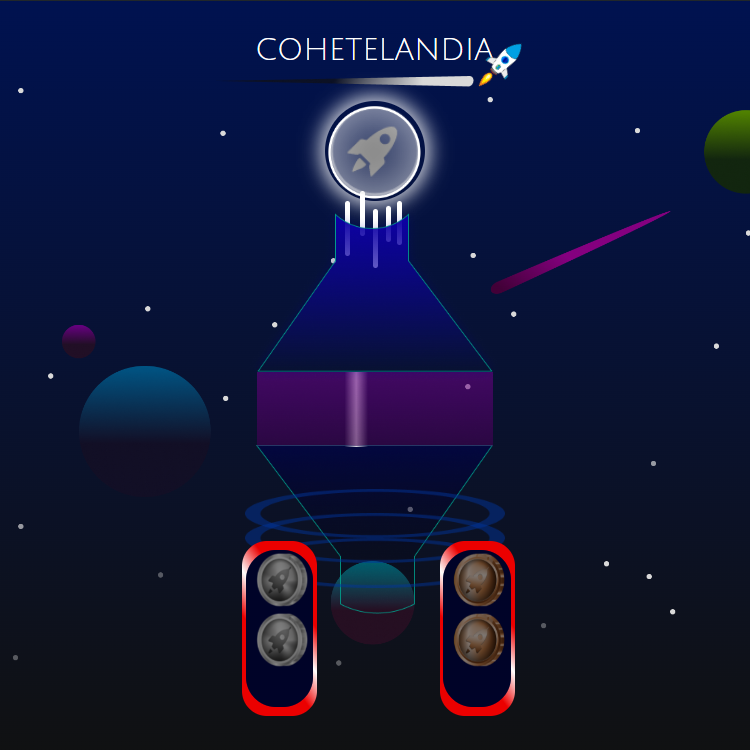
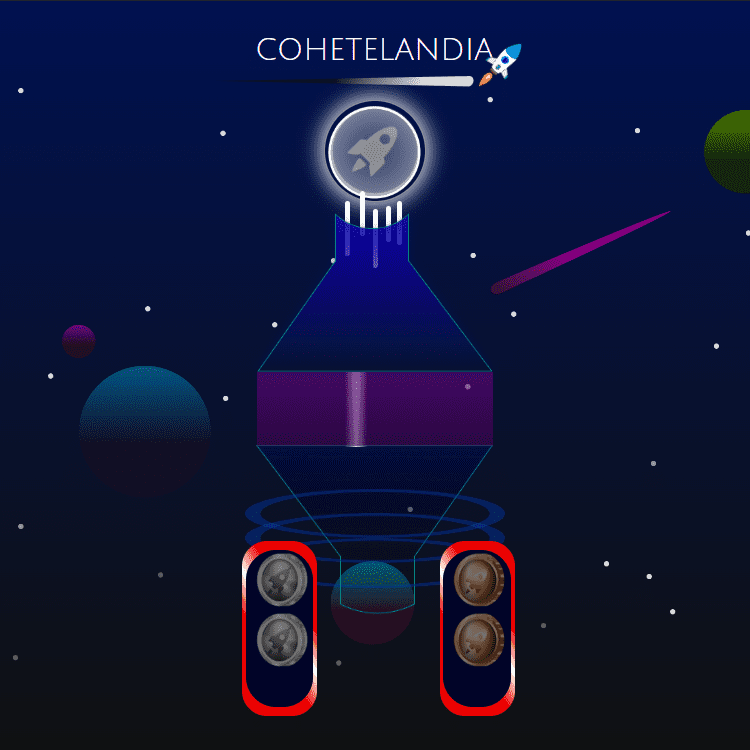
Add some changes in coin changer vortex
-Se añadio al vortez y las monedas de la derecha acceso a la store desde las de oro
-se añadio la animacion con imagen a store o cambiador de monedas

-Se añadio animacion de la nave del usuario volando hacia el vortex para entrar a la store o al cambiador de monedas.

diff --git a/resources/js/components/sections/ItemPalette.vue b/resources/js/components/sections/ItemPalette.vue
@@ -23,6 +23,9 @@ import CoinChangerVortexVue from "../activities/Coin Changer/CoinChangerVortex.v
 const goldCoins = ref(null);
 const silverCoins = ref(null);
 const bronzeCoins = ref(null);
+const goldCoinsChangeActive = ref("");
+const silverCoinsChangeActive = ref("");
+const bronzeCoinsChangeActive = ref("");
 
 //Props
 const props = defineProps({
@@ -31,7 +34,7 @@ const props = defineProps({
 });
 
 //Emits
-const emit = defineEmits(['closeAnimation', 'openAnimation']);
+const emit = defineEmits(['closeAnimation', 'openAnimation', 'vortexType', 'selected']);
 
 
 onMounted(() => {
@@ -53,6 +56,28 @@ onMounted(() => {
     }else if(parseInt(localStorage.getItem('bronzeCoins')) < 5){
         bronzeCoins.value = parseInt(localStorage.getItem('bronzeCoins'));
     }
+
+    //Controlamos si hay monedas suficientes para cambiar para darle efecto al boton de cambiar segun las monedas.
+    if(parseInt(localStorage.getItem('goldCoins')) > 0){
+        goldCoinsChangeActive.value = "item-palette-gold__div--container-active";
+    }else if(parseInt(localStorage.getItem('goldCoins')) === 0){
+        goldCoinsChangeActive.value = "";
+    };
+
+    if(parseInt(localStorage.getItem('silverCoins')) > 2){
+        silverCoinsChangeActive.value = "item-palette-gold__div--container-active";
+    }else if(parseInt(localStorage.getItem('silverCoins')) < 3){
+        silverCoinsChangeActive.value = "";
+    };
+
+    if(parseInt(localStorage.getItem('bronzeCoins')) > 2){
+        bronzeCoinsChangeActive.value = "item-palette-gold__div--container-active";
+    }else if(parseInt(localStorage.getItem('bronzeCoins')) > 3){
+        bronzeCoinsChangeActive.value = "";
+    };
+
+
+
 
     localStorage.setItem('itemSelected', null)
     itemSelected.value = getSelectItem()
@@ -141,9 +166,17 @@ const closeAnimation = () => {
     emit('closeAnimation', false);
 };
 
-const openAnimation = () => {
-    console.log("hover funcional");
+const openAnimation = (type) => {
     emit('openAnimation', true);
+    emit('vortexType', type);
+};
+
+//Creamos una funcion que nos mandara a la ruta de la store
+const storeAccess = () => {
+    setTimeout(() => {
+        window.location = `${localHost}/store`;
+    }, 3000);
+    emit('selected', true);
 };
 
 
@@ -238,18 +271,30 @@ const openAnimation = () => {
 
 
                         <!-- Codigo nuevo para monedas -->
-                        <div class="item-palette-gold__div--container w-52 h-10 bg-blue-950 rounded-3xl flex justify-center items-center border-2 border-cyan-400 hover:bg-yellow-400 hover:scale-95 hover:border-violet-50 cursor-pointer duration-300" @mouseenter="openAnimation()" @mouseleave="closeAnimation()">
-                            <img class="item-palette-gold__img--gold-coin w-10 duration-300 ease-in-out" v-for="index in goldCoins" :key="index" :src="IconGoldCoin" alt="golden-coin"/>
-                            <img class="item-palette__img--changer-icon w-0 absolute duration-300" :src="IconChanger" alt="changer"/>
+                        <div>
+                            <div v-if="goldCoins < 1" class="w-52 h-10 absolute z-20"></div>
+                            <div :class="`item-palette-gold__div--container ${goldCoinsChangeActive} w-52 h-10 bg-blue-950 rounded-3xl flex justify-center items-center border-2 border-cyan-400 hover:bg-yellow-400 hover:scale-95 hover:border-violet-50 cursor-pointer duration-300`" @mouseenter="openAnimation('store')" @mouseleave="closeAnimation()" @click="storeAccess()">
+                                <img class="item-palette-gold__img--gold-coin w-10 duration-300 ease-in-out" v-for="index in goldCoins" :key="index" :src="IconGoldCoin" alt="golden-coin"/>
+                                <img class="item-palette__img--changer-icon w-0 absolute duration-300" :src="IconChanger" alt="changer"/>
+                            </div>
                         </div>
-                        <div class="item-palette-silver__div--container w-52 h-10 bg-blue-950 rounded-3xl flex justify-center items-center border-2 border-cyan-400 hover:bg-gray-400 hover:scale-95 hover:border-violet-50 cursor-pointer duration-300" @mouseenter="openAnimation()" @mouseleave="closeAnimation()">
-                            <img class="item-palette-silver__img--silver-coin w-10 duration-300 ease-in-out" v-for="index in silverCoins" :key="index" :src="IconSilverCoin" alt="silver-coin"/>
-                            <img class="item-palette__img--changer-icon w-0 absolute duration-300" :src="IconChanger" alt="changer"/>
+
+                        <div>
+                            <div v-if="silverCoins < 3" class="w-52 h-10 absolute z-20"></div>
+                            <div :class="`item-palette-silver__div--container ${silverCoinsChangeActive} w-52 h-10 bg-blue-950 rounded-3xl flex justify-center items-center border-2 border-cyan-400 hover:bg-gray-400 hover:scale-95 hover:border-violet-50 cursor-pointer duration-300`" @mouseenter="openAnimation('changer')" @mouseleave="closeAnimation()">
+                                <img class="item-palette-silver__img--silver-coin w-10 duration-300 ease-in-out" v-for="index in silverCoins" :key="index" :src="IconSilverCoin" alt="silver-coin"/>
+                                <img class="item-palette__img--changer-icon w-0 absolute duration-300" :src="IconChanger" alt="changer"/>
+                            </div>
                         </div>
-                        <div class="item-palette-bronze__div--container w-52 h-10 bg-blue-950 rounded-3xl flex justify-center items-center border-2 border-cyan-400 hover:bg-amber-700 hover:scale-95 hover:border-violet-50 cursor-pointer duration-300" @mouseenter="openAnimation()" @mouseleave="closeAnimation()">
-                            <img class="item-palette-bronze__img--bronze-coin w-10 duration-300 ease-in-out" v-for="index in bronzeCoins" :key="index" :src="IconBronzeCoin" alt="bronze-coin"/>
-                            <img class="item-palette__img--changer-icon w-0 absolute duration-300" :src="IconChanger" alt="changer"/>
+
+                        <div>
+                            <div v-if="bronzeCoins < 3" class="w-52 h-10 absolute z-20"></div>
+                            <div :class="`item-palette-bronze__div--container ${bronzeCoinsChangeActive} w-52 h-10 bg-blue-950 rounded-3xl flex justify-center items-center border-2 border-cyan-400 hover:bg-amber-700 hover:scale-95 hover:border-violet-50 cursor-pointer duration-300`" @mouseenter="openAnimation('changer')" @mouseleave="closeAnimation()">
+                                <img class="item-palette-bronze__img--bronze-coin w-10 duration-300 ease-in-out" v-for="index in bronzeCoins" :key="index" :src="IconBronzeCoin" alt="bronze-coin"/>
+                                <img class="item-palette__img--changer-icon w-0 absolute duration-300" :src="IconChanger" alt="changer"/>
+                            </div>
                         </div>
+                        
 
 
                     </div>
@@ -267,7 +312,7 @@ const openAnimation = () => {
                     class="bg-red-100 col-span-2 flex justify-center m-3 p-2 rounded-md border-orange-400 border-4 border-dashed">
                     <span class="font-semibold text-xl text-center">Paleta de colores</span>
                 </div> -->
-                <div @click="selectItemPalette(item)" v-for="item in props.items"
+                <div @click="selectItemPalette(item)" v-for="item , index in props.items" :key="index"
                      class="flex justify-center items-center w-full h-full">
                     <button
                         :class="['bg-gray-100 shadow-md rounded-lg hover:opacity-75 hover:scale-95 duration-300 select-none font-bold text-6xl w-20 h-20 flex justify-center items-center' ,
@@ -387,32 +432,6 @@ const openAnimation = () => {
     box-shadow: inset 0px 0px 20px -1px rgba(233,245,0,1);
 }
 
-/* @keyframes backgroundCoins {
-    0% {
-        background-position: 0% 0%;
-    }
-
-    50% {
-        background-position: 100% 100%;
-    }
-
-    100% {
-        background-position: 0% 0%;
-    }
-} */
-
-/* .item-palette-silver__div--container {
-
-}
-
-.item-palette-bronze__div--container {
-
-} */
-/* .item-palette-gold__div--container:hover {
-    background-color: #facc15;
-    border: ;
-} */
-
 
 .item-palette-gold__div--container:hover .item-palette-gold__img--gold-coin {
     width: 0px;
@@ -422,6 +441,29 @@ const openAnimation = () => {
     width: 40px;
 }
 
+.item-palette-gold__div--container-active {
+    animation: changerActive 2s infinite;
+}
+
+@keyframes changerActive {
+    0% {
+        -webkit-box-shadow: 0px 0px 9px -21px rgb(255, 255, 255);
+        -moz-box-shadow: 0px 0px 9px -21px rgb(255, 255, 255);
+        box-shadow: 0px 0px 9px -21px rgb(255, 255, 255);
+    }
+
+    50% {
+        -webkit-box-shadow: 0px 0px 20px -3px rgba(255,255,255,1);
+        -moz-box-shadow: 0px 0px 20px -3px rgba(255,255,255,1);
+        box-shadow: 0px 0px 20px -3px rgba(255,255,255,1);
+    }
+
+    100% {
+        -webkit-box-shadow: 0px 0px 9px -21px rgb(255, 255, 255);
+        -moz-box-shadow: 0px 0px 9px -21px rgb(255, 255, 255);
+        box-shadow: 0px 0px 9px -21px rgb(255, 255, 255);
+    }
+}
 
 .item-palette-gold__img--gold-coin {
     filter: drop-shadow(10px 10px 5px rgba(0, 0, 0, 0.5));

diff --git a/resources/js/components/activities/Coin Changer/CoinChangerVortex.vue b/resources/js/components/activities/Coin Changer/CoinChangerVortex.vue
@@ -1,27 +1,111 @@
 <script setup>
 import coinChangerImage from '../../../../../public/images/coin-change/coin-changer-image.png';
+import storeImage from '../../../../../public/images/coin-change/store-img.png';
+import { store_data } from '../../../use/store_data';
+
+const props = defineProps({
+    type: {type: Array},
+    selected: {type: Boolean},
+});
+
+const currentShip = () => {
+    let currentShip = parseInt(localStorage.getItem('shipSelected'));
+
+    return store_data[currentShip - 1].img;
+};
 
 </script>
 
 <template>
-    <div class="flex justify-center items-center w-full h-full absolute ">
+    <div class="vortex__div--container flex justify-center items-center w-full h-full absolute ">
+        <img v-if="props.selected" class="vortex__img--ship w-80 absolute z-30" :src="currentShip()" alt="ship"/>
         <div class="vortex__div--vortex-background rounded-full w-96 h-96 flex justify-center items-center">
-            <img class="vortex__img--coin-changer w-72 rounded-full" :src="coinChangerImage" alt="vortex-image"/>
+            <img v-if="props.type === 'changer'" class="vortex__img--coin-changer w-72 rounded-full" :src="coinChangerImage" alt="vortex-image"/>
+            <img v-if="props.type === 'store'" class="vortex__img--coin-changer w-72 rounded-full" :src="storeImage" alt="vortex-image"/>
         </div>
     </div>
 </template>
 
 <style scoped>
+
 .vortex__div--vortex-background {
     z-index: 2;
     background-image: url('../../../../../public/images/coin-change/vortex-2.jpg');
     background-size: cover;
     background-position: center;
+    -webkit-box-shadow: 0px 0px 126px -3px rgba(0,0,176,1);
+    -moz-box-shadow: 0px 0px 126px -3px rgba(0,0,176,1);
+    box-shadow: 0px 0px 126px -3px rgba(0,0,176,1);
+    animation: rotateVortexAnimation 10s infinite linear,  introVortexAnimation 1s linear;
 }
+
+@keyframes rotateVortexAnimation {
+    0% {
+        transform: rotate(0deg);
+    }
+
+    /* 50% {
+        transform: rotate(180deg);
+    } */
+
+    100% {
+        transform: rotate(360deg);
+    }
+}
+
+@keyframes introVortexAnimation {
+    0% {
+        width: 0;
+        height: 0;
+    }
+
+    /* 50% {
+        transform: rotate(180deg);
+    } */
+
+    100% {
+        width: 400px;
+        height: 400px;
+    }
+}
+
+
 
 .vortex__img--coin-changer {
     -webkit-box-shadow: 0px 0px 179px 21px rgba(255,255,255,1);
     -moz-box-shadow: 0px 0px 179px 21px rgba(255,255,255,1);
     box-shadow: 0px 0px 179px 21px rgba(255,255,255,1);
+    animation: rotateCoinChangerAnimation 10s infinite linear;
 }
+
+@keyframes rotateCoinChangerAnimation {
+    0% {
+        transform: rotate(0deg);
+    }
+
+    /* 50% {
+        transform: rotate(180deg);
+    } */
+
+    100% {
+        transform: rotate(-360deg);
+    }
+}
+
+
+.vortex__img--ship {
+    animation: animationShip 2s  linear;
+    animation-fill-mode: forwards;
+}
+
+@keyframes animationShip {
+    0% {
+        transform: rotate(398deg) translate(-400px, 400px);
+    }
+
+    100% {
+        transform: rotate(398deg) translate(0px, 0px);
+    }
+}
+
 </style>

diff --git a/resources/js/components/activities/PaintPattern.vue b/resources/js/components/activities/PaintPattern.vue
@@ -46,7 +46,14 @@ const items = props.items;
 const talkBool = ref(false);
 const levelComplete = ref(false);
 const coinChangerVortexRef = ref(false);
+const vortexType = ref("");
+const selectedLevelVortex = ref(false);
 
+
+//Establecemos la ubicacion actual del software en el storage
+localStorage.setItem('currentLocation', `${localHost}/level${props.level[0]}/${props.level[1]}`);
+
+// console.log("propsleve", );
 
 // Alerta inicial
 const showInitialAlert = () => {
@@ -400,9 +407,20 @@ const win = () => {
   }, 2600)
 };
 
+//Funcion que controla los emits que activan el vortice
 const coinChangerVortexActivate = (event) => {
   coinChangerVortexRef.value = event;
 };
+
+//Funcion que controla el tipo de vortice si es a coin changer o a la store
+const vortexTypeFunction = (event) => {
+  vortexType.value = event;
+};
+
+const selectedLevelVortexFunction= (event) => {
+  selectedLevelVortex.value = event;
+};
+
 </script>
 <template>
   <!--  <div id="loadStyles" :class="`h-36 w-36 h-24 w-24 h-20 w-20 grid grid-cols-3 grid-cols-4 grid-cols-5 hidden-->
@@ -414,7 +432,7 @@ const coinChangerVortexActivate = (event) => {
   <BackgroundActivities/>
 
   <WinView id="winView" class="hidden opacity-0 duration-300"/>
-  <CoinChangerVortex v-if="coinChangerVortexRef"/>
+  <CoinChangerVortex v-if="coinChangerVortexRef" :type="vortexType" :selected="selectedLevelVortex"/>
 
   <div class="flex flex-col min-h-screen">
     <div class="mx-auto flex-1 container flex justify-center">
@@ -491,6 +509,8 @@ const coinChangerVortexActivate = (event) => {
             :items="items"
             @closeAnimation="coinChangerVortexActivate"
             @openAnimation="coinChangerVortexActivate"
+            @vortexType="vortexTypeFunction"
+            @selected="selectedLevelVortexFunction"
           />
         </div>
       </div>

diff --git a/resources/js/components/templates/Store/Store.vue b/resources/js/components/templates/Store/Store.vue
@@ -54,9 +54,11 @@ const selectedShip = (event) => {
     selectedShipRef.value = event;
 };
 
+console.log();
+
 //Funcion para volver atras
 const backTo = () => {
-    console.log("volver atras");
+    window.location = localStorage.getItem('currentLocation');
 };
 
 
